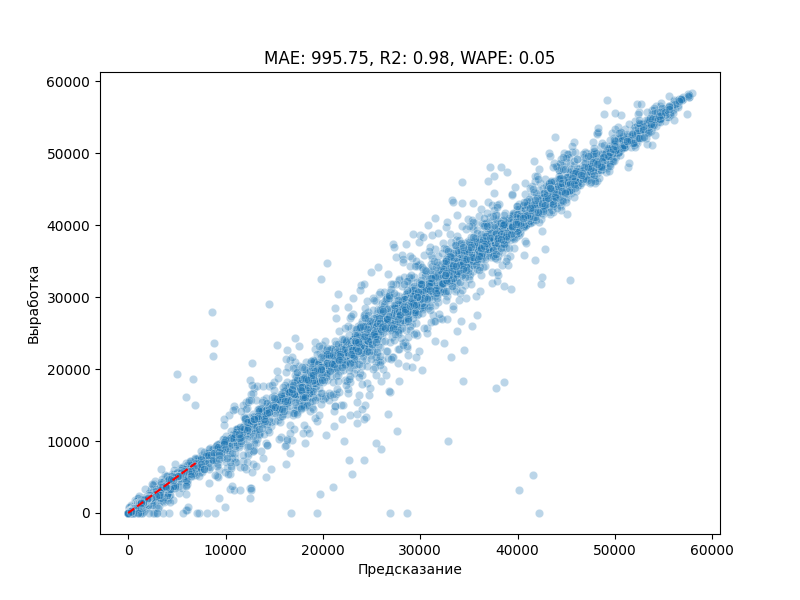
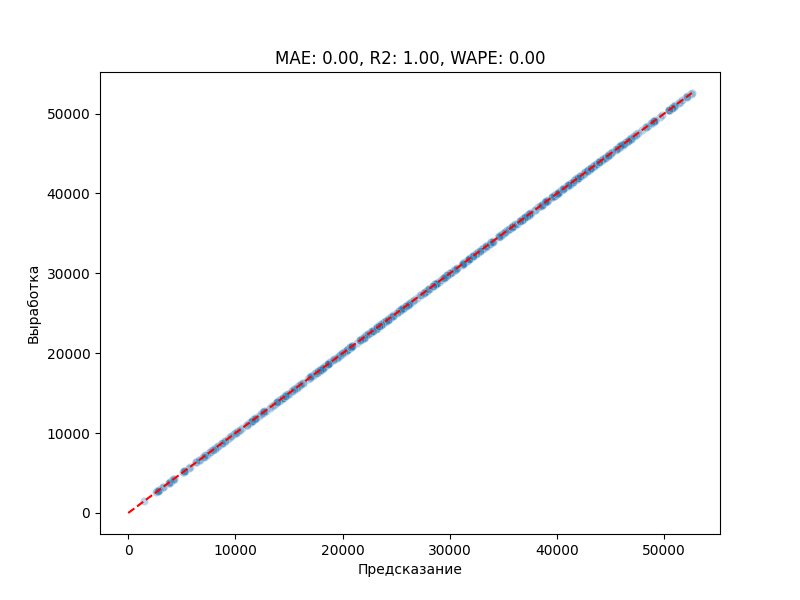
ver2

diff --git a/src/app.py b/src/app.py
@@ -7,7 +7,7 @@ import datetime as dt
 import pandas as pd
 import matplotlib.pyplot as plt
 from PIL import Image
-
+from sklearn.model_selection import train_test_split
 from sklearn.ensemble import RandomForestRegressor
 
 SLIDER_MIN = 1
@@ -90,6 +90,8 @@ class SolarApp(ctki.CTk):
     def _download_results(self, result_file, predicts):
         self.result_fd = ctki.filedialog.askdirectory(title="Укажите путь к целевой папке")
         result_file["production"] = predicts
+        result_file['date'] = pd.to_datetime(result_file['date'])
+
         result_file['date'] = result_file['date'].dt.tz_localize(None)
         result_file.to_excel(f"{self.result_fd}/result.xlsx")
         
@@ -102,7 +104,7 @@ class SolarApp(ctki.CTk):
     def start_program(self):
         lat = self.lat_entry.get()
         lon = self.lon_entry.get()
-        
+
         production = pd.read_excel(self.production_fp)
         start_date = production["date"][0]
         end_date = production["date"][len(production["date"]) - 1]
@@ -114,32 +116,40 @@ class SolarApp(ctki.CTk):
     
         forec_dl = ForecastedDataLoader(PARAMETERS, str(end_date)[0:10], str(end_date + dt.timedelta(days=self.slider.get() - 1))[0:10], self.lat_entry.get(), lon)
         forec_data = forec_dl.load_data()
-
+        
         processor = DataProcessor(production, hist_data, forec_data, PARAMETERS, self.slider.get(), self.id_station)
         meteo_and_prod, forec_data = processor.process_data()
         print(meteo_and_prod.head())
         model_teacher = ModelTeacher(meteo_and_prod, ["production"], 50, 20, 24, 42)
         model_and_predicts = model_teacher.train_model()
-        
         model = model_and_predicts[0]
-
+        
+        y = meteo_and_prod["production"]
+        x = meteo_and_prod.drop(columns=['date', 'production'], axis=1)
+        x_train, x_test, y_train, y_test = train_test_split(x,
+                                                    y, 
+                                                    test_size=0.2, random_state=42)
+        
+        predicts = model.predict(x_test[model.feature_names_in_])
+        
+        fact = y_test
         predicts = model_and_predicts[1]
         fact = model_and_predicts[2]
-    
-        predicts = model.predict(meteo_and_prod.drop(['date', 'production'], axis=1))
-        fact = meteo_and_prod['production']
         model_teacher.plot_predictions_vs_true(predicts, fact)
         metrics_image = ctki.CTkImage(light_image=Image.open("src/content/model_metrics.png"), size=(800, 600))
         metrics_image_label = ctki.CTkLabel(self.output_frame, image=metrics_image, text="")
         metrics_image_label.pack(pady=10)
         predicts = model.predict(forec_data[model.feature_names_in_])
+        model_teacher.plot_predictions_vs_true(predicts, predicts)
         result_file = forec_data.copy() 
         download_button = ctki.CTkButton(self.output_frame, border_color="#C4C4C4", border_width=2, 
                                         text="Получить результат прогнозирования", height=40, font=("Georgia", 13, "bold"),
                                         fg_color="#28a745", hover_color="#218838",
                                         command=lambda:self._download_results(result_file, predicts), width=10)
+        
         print(forec_data.head())
         download_button.pack(pady=10)
+
 
 if __name__ == "__main__":
     app = SolarApp()

diff --git a/src/data_processor.py b/src/data_processor.py
@@ -56,12 +56,34 @@ class DataProcessor:
         upper_bound = q3 + 1.5 * iqr
 
         dataframe.loc[(dataframe[subset_column] < lower_bound) | (dataframe[subset_column] > upper_bound), subset_column] = np.nan
+        
+    def process_forecasted_data(self):
+        self.forecasted_weather['date'] = pd.to_datetime(self.forecasted_weather['date']).dt.normalize()
+
+        sum_cols = ['diffuse_radiation', 'terrestrial_radiation', 'shortwave_radiation', 'direct_radiation']
+        
+        agg_dict = {}
+        for col in self.forecasted_weather.columns:
+            if col in ['date', 'id_station']:
+                continue
+            
+            if col in sum_cols:
+                agg_dict[col] = 'sum'
+            else:
+                if pd.api.types.is_numeric_dtype(self.forecasted_weather[col]):
+                    agg_dict[col] = 'mean'
+
+        daily_historical = self.forecasted_weather.groupby(['date', 'id_station']).agg(agg_dict).reset_index()
+        
+        return daily_historical
 
 
+    
     def process_data(self):    
         self.production_data['production'] = pd.to_numeric(self.production_data['production'], errors='coerce')
         self.historical_weather["date"] = pd.to_datetime(self.historical_weather['date']).dt.date
         self.production_data["date"] = pd.to_datetime(self.production_data["date"]).dt.date
+        self.forecasted_weather["date"] = pd.to_datetime(self.forecasted_weather['date'], errors='coerce').dt.date
         
         self.forecasted_weather['id_station'] = self.ID_STATION
         meteo_and_prod = self.merged_meteo_and_prod()
@@ -69,6 +91,7 @@ class DataProcessor:
         self.delete_anomalies(meteo_and_prod, 'production')
         meteo_and_prod.dropna(inplace=True)
         meteo_and_prod.drop_duplicates(subset=['date','id_station'], keep='first', inplace=True)
+        self.forecasted_weather = self.process_forecasted_data()
         print(meteo_and_prod.columns)
 
         return meteo_and_prod, self.forecasted_weather

diff --git a/src/model_teacher.py b/src/model_teacher.py
@@ -34,7 +34,7 @@ class ModelTeacher:
         ax.set_title(f"MAE: {mean_absolute_error(y_pred, y):.2f}, R2: {r2_score(y_pred, y):.2f}, WAPE: {self.wape(y_pred, y):.2f}")
         ax.set_xlabel("Предсказание")
         ax.set_ylabel("Выработка")
-        ax.plot([0, len(y)], [0, len(y_pred)], c='r', linestyle='--')
+        ax.plot([0, max(y)], [0, max(y_pred)], c='r', linestyle='--')
 
         fig.savefig("src/content/model_metrics.png")
 
@@ -46,7 +46,7 @@ class ModelTeacher:
         x = self.data.drop(columns=['production', 'date'])
         x_train, x_test, y_train, y_test = train_test_split(x,
                                                     y, 
-                                                    test_size=0.2)
+                                                    test_size=0.2, random_state=42)
 
         param_grid = { 
         'max_depth': [5, 10, 15, None], 
@@ -83,3 +83,4 @@ class ModelTeacher:
         result_df['production'] = predictions
         
         return result_df
+

diff --git a/src/historical_data_loader.py b/src/historical_data_loader.py
@@ -45,7 +45,7 @@ class HistoricalDataLoader:
                 all_data.append(chunk_df)
         
             current = chunk_end + dt.timedelta(days=1)
-            time.sleep(0.5)
+            time.sleep(1)
     
         return pd.concat(all_data, ignore_index=True)
         result = pd.read_csv('notebook/historical_weather.csv',index_col=False)
